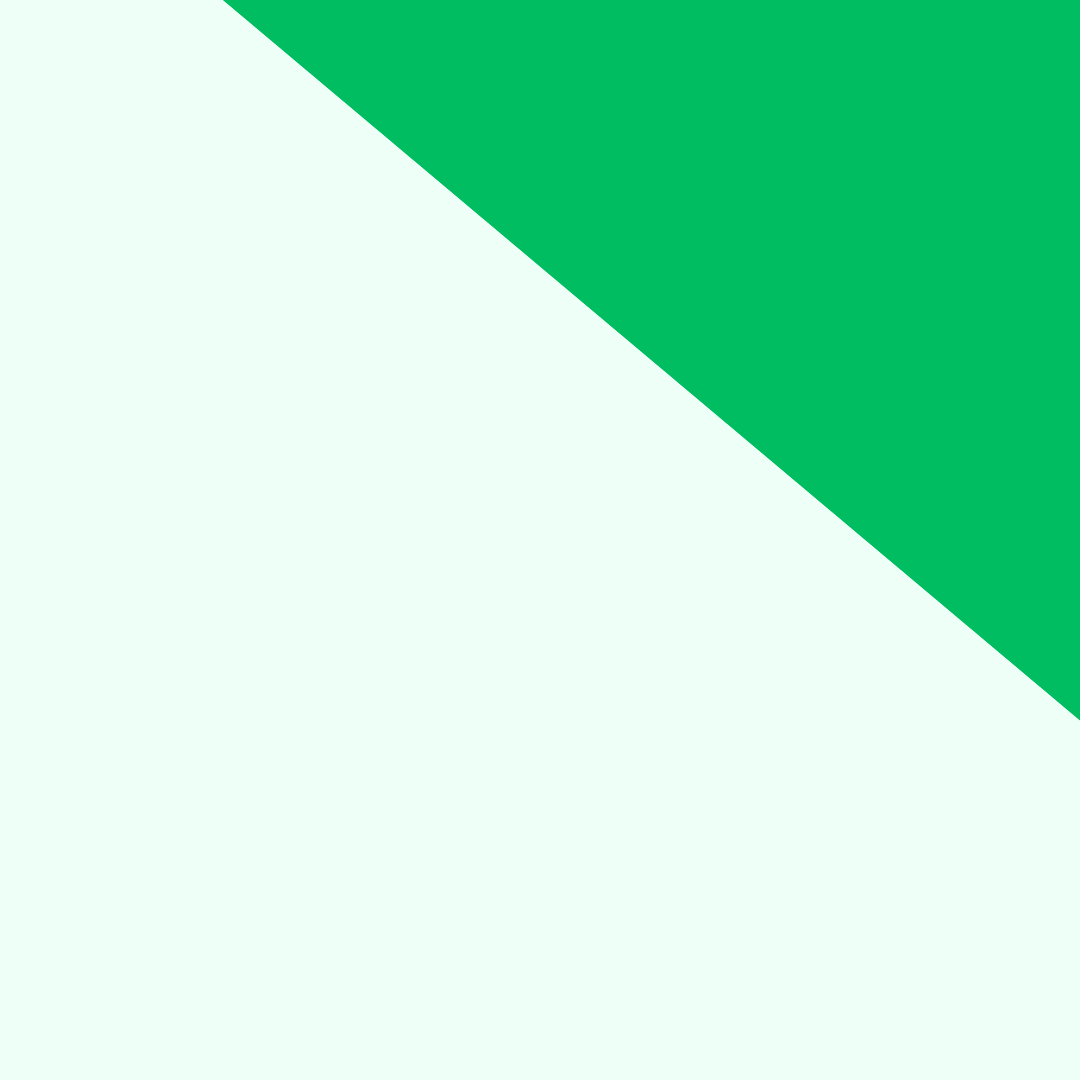
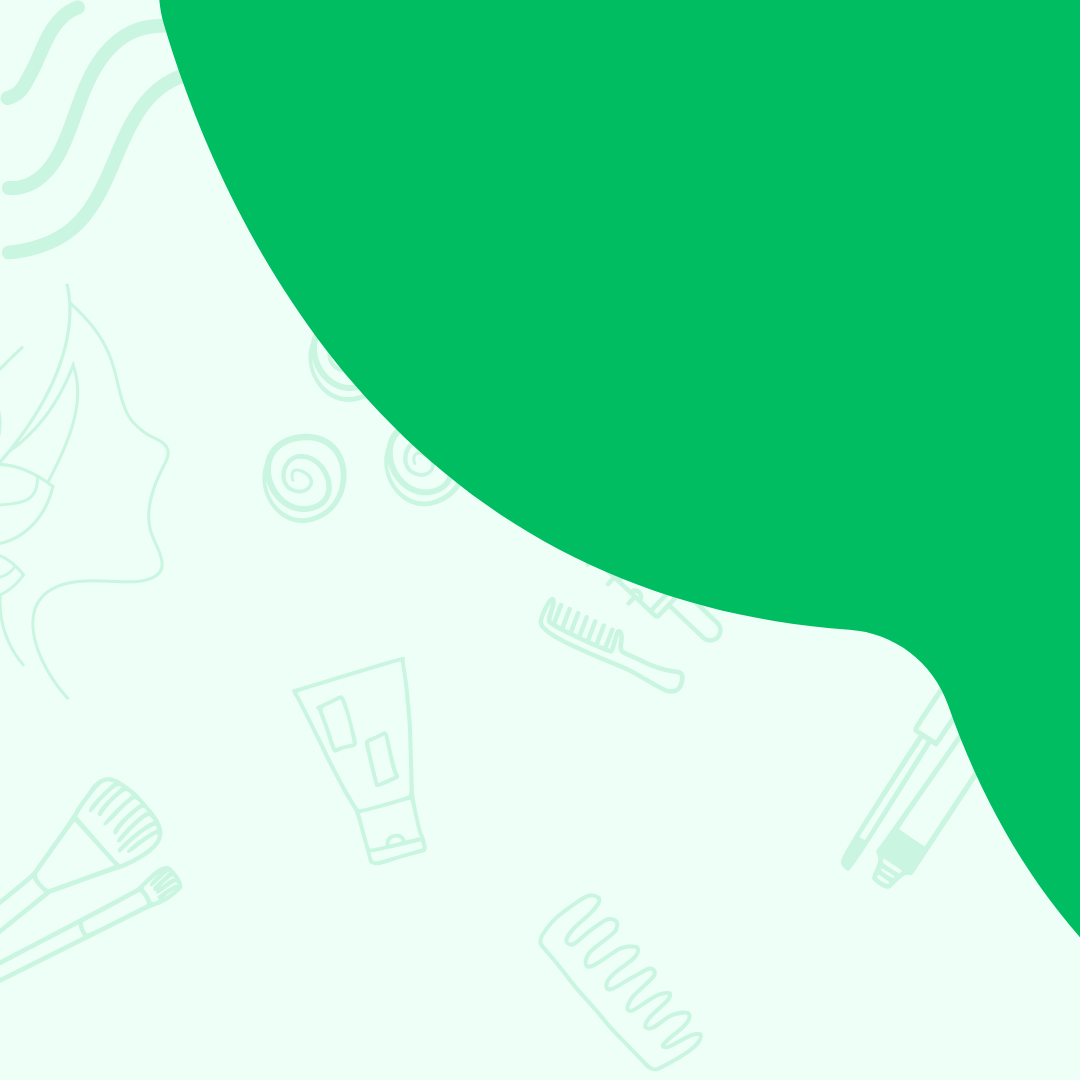
Add files via upload

diff --git a/index.html b/index.html
@@ -1,0 +1,160 @@
+<!DOCTYPE html>
+<html lang="en">
+<head>
+    <meta charset="UTF-8">
+    <meta name="viewport" content="width=device-width, initial-scale=1.0">
+    <title>Fanda Salon</title>
+    <style>
+
+        @import url('https://fonts.googleapis.com/css2?family=Poppins:ital,wght@0,100;0,200;0,300;0,400;0,500;0,600;0,700;0,800;0,900;1,100;1,200;1,300;1,400;1,500;1,600;1,700;1,800;1,900&display=swap');
+
+        * {
+            font-family: "Poppins", sans-serif;
+            margin: 0px;
+            padding: 0px;
+        }
+
+        .main_bg {
+            position: absolute;
+            min-width: 1500px;
+            z-index: -3;
+        }
+
+        /* .icon {
+            opacity: 0.3;
+            position: absolute;
+            background-image: ;
+            width: 100%;
+            z-index: -1;
+        } */
+
+        .container_1 {
+            z-index: 2;
+            width: 100%;
+            height: 50px;
+            position: fixed;
+            display: flex;
+            flex-wrap: wrap;
+            box-sizing: border-box;
+        }
+
+        .menu_container {
+            display: flex;
+            flex-wrap: wrap;
+            margin: 0px;
+            width: 50%;
+            height: 35px;
+        }
+
+        .home, .about_us {
+            font-size: 15px;
+            color: white;
+            transition: 0.2s;
+            border-radius: 100px;
+            margin: 0px 10px;
+            margin-left: auto;
+            align-self: center;
+            padding: 3px;
+        }
+
+        .home:hover, .about_us:hover {
+            background-color: white;
+            color: #00BD62;
+        }
+
+        .FandaSalon {
+            margin: 0px;
+            display: flex;
+            flex-wrap: wrap;
+            width: 50%;
+        }
+
+        .Fanda, .Salon {
+            font-size: 20px;
+        }
+
+        .Fanda {
+            color: #00BD62;                        
+        }
+
+        .logo {
+            /* position: absolute; */
+            width: 15px;
+            height: 15px;
+            background-color: black;
+            margin: 8px;
+        }
+
+        .container_2 {
+            /* background-color: blue; */
+            width: 100%;
+            height: 700px;
+            display: flex;
+        }
+
+        .profil {
+            margin-left: 20px;
+            align-self: center;
+            min-width: 250px;
+            height: 250px;
+            backdrop-filter: blur(5px);
+            -webkit-backdrop-filter: blur(5px);
+            border-radius: 25px;
+            box-shadow: rgb(0, 0, 0, 0.2) 0px 0px 10px;
+        }
+
+        .onah {
+            position: absolute;
+            width: 280px;
+            left: -15px;
+            bottom: 0px;
+            transition: 0.3s;
+        }
+
+        .onah:hover {
+            width: 300px;
+            left: -25px;
+        }
+
+        .slogan {
+            width: 60%;
+            font-size: 50px;
+            margin-left: 30px;
+            align-self: center;
+        }
+
+        .true {
+            color: #00BD62;
+        }
+
+    </style>
+</head>
+<body>
+
+    <img class="main_bg" src="main_bg.png" alt="main_bg">
+
+    <div class="container_1">
+        <h1 class="FandaSalon">
+            <div class="logo"></div>
+            <div class="Fanda">Fanda</div>
+            <div class="Salon">Salon</div>
+        </h1>
+        <div class="menu_container">
+            <h1 class="home">Home</h1>
+            <h1 class="about_us">About us</h1>
+        </div>
+    </div>
+
+    <div class="container_2">
+        <h1 class="slogan">Making Your Dreams Beauty Become <b class="true">TRUE</b></h1>
+        <div class="profil">
+            <img class="onah" src="Screenshot_2024-05-20_13.37.36-removebg-preview.png" alt="profil">
+        </div>
+    </div>
+
+    <div class="container_3">
+        <h1>contoh</h1>
+    </div>
+    
+</body>
+</html>
